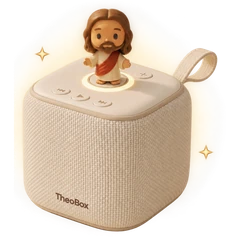
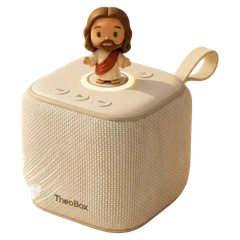
Ruleta: imagen nueva de la TheoBox y sin la cama de paja; en la semana 4 la casilla de prenda da la que falte
Claude-Session: https://claude.ai/code/session_01BktJzG9fzs9MDbqfrZW9Zc

diff --git a/public/js/flow.js b/public/js/flow.js
@@ -1106,7 +1106,7 @@ function quitarCorona(root) {
 /** El cuarto de Teodoro trae nombre, racha y panes pintados en la imagen: se tapan con los datos reales (mismo estilo que Hoy). */
 function patchCuarto(root) {
   const bg = $$(root, 'img').find(i => /^Tab Teodoro/.test(i.alt || ''));
-  const POS = { gorro: 'left:150px;top:96px;width:84px;transform:rotate(-8deg)', bufanda: 'left:140px;top:222px;width:102px', bolso: 'left:236px;top:268px;width:62px;transform:rotate(10deg)', paja: 'left:268px;top:312px;width:100px' };
+  const POS = { gorro: 'left:150px;top:96px;width:84px;transform:rotate(-8deg)', bufanda: 'left:140px;top:222px;width:102px', bolso: 'left:236px;top:268px;width:62px;transform:rotate(10deg)' };
   // de pie (3 a 5 de energía) lleva gorro y bufanda; cansado o dormido, el bolso queda en el piso
   const dePie = S.bateria >= 3 || !!bg;
   if (!dePie) POS.bolso = 'left:262px;top:330px;width:58px;transform:rotate(-6deg)';
@@ -1137,7 +1137,7 @@ function patchCuarto(root) {
   add(`${racha()}<svg aria-hidden="true" width="16" height="20" viewBox="0 0 24 30"><path d="M12 1C13 8 21 11 21 19a9 9 0 0 1-18 0c0-5 3-7 4-11 2 3 3 4 3 6 1-4 2-8 2-13Z" fill="#F28C28"/><path d="M12 14c1 4 5 5 5 9a5 5 0 0 1-10 0c0-3 2-4 2-6 1 1 2 2 2 3 0-2 1-4 1-6Z" fill="#FFC94A"/></svg>`,
     'left:206px;top:55px;width:74px;height:44px;border-radius:22px;background:#1F7F95;display:flex;align-items:center;justify-content:center;gap:4px;color:#FFFFFF;font:700 18px "Neue Montreal",Mulish,sans-serif;box-shadow:0 4px 12px rgba(0,8,43,.12)')
     .setAttribute('aria-label', `Racha: ${racha()} días seguidos`);
-  // prendas ganadas en la ruleta: Teodoro las lleva puestas (la cama de paja va en el suelo)
+  // prendas ganadas en la ruleta: Teodoro las lleva puestas
   ponerPrendas();
   add(String(S.panes), 'left:336px;top:520px;width:40px;height:24px;background:rgb(251,242,229);color:#4A2E14;display:grid;place-items:center;font:800 15px Mulish,sans-serif')
     .setAttribute('aria-label', `${S.panes} panes`);
@@ -1525,6 +1525,8 @@ const SEGMENTS = ['theobox', 'panes', 'cuarto', 'panes', 'prenda', 'panes', 'otr
 const TEOBOX_DIA = RULES.ruleta[RULES.ruleta.length - 1];
 const TEOBOX = 'ruleta/theobox.webp', TEOBOX_IMG = A(TEOBOX); // en la rueda va recortada, sin el resplandor (se veía chica)
 const teoboxEnJuego = n => n === TEOBOX_DIA && S.theobox === 'libre';
+// la prenda de la casilla «prenda»: la de su semana (1 a 3); en la semana 4, la primera que les falte (sin ninguna pendiente, null = panes)
+const prendaDe = n => PRENDAS[RULES.ruleta.indexOf(n)] || PRENDAS.find(x => !S.prendas.includes(x.id)) || null;
 const SEG = 360 / SEGMENTS.length;
 // los íconos de las 8 casillas sobre rueda8.webp (caja = lo que mide la rueda), cada uno mirando hacia afuera
 const casillas = (caja, prenda) => {
@@ -1549,12 +1551,12 @@ register('ruletaPop', {
     wheel?.parentElement.classList.add('a-pop');
     const pointer = $$(root, 'img').find(i => i.src.includes('3fdb655b'));
     // la rueda de 8 casillas y sus iconos (la del lienzo trae 10)
-    const week0 = RULES.ruleta.indexOf(n);
+    const prendaSemana = prendaDe(n); // se fija al abrir: la rueda muestra lo mismo que da
     if (wheel) {
       const base = wheel.querySelector(':scope > img'); if (base) base.src = 'assets/ruleta/rueda8.webp';
       [...wheel.children].filter(c => c.tagName === 'DIV').forEach(c => c.remove());
       const box = base ? parseFloat(base.style.width) || 330 : 330, cx = box / 2;
-      wheel.insertAdjacentHTML('beforeend', casillas(box, A(PRENDAS[week0]?.img || IMG.regalo)));
+      wheel.insertAdjacentHTML('beforeend', casillas(box, A(prendaSemana?.img || IMG.pan)));
       wheel.style.transformOrigin = `${cx}px ${cx}px`;
       wheel.parentElement.setAttribute('aria-label', 'Ruleta sorpresa con 8 casillas: TheoBox, panes, sorpresa, panes, prenda de la semana, panes, gira otra vez, panes');
     }
@@ -1566,7 +1568,7 @@ register('ruletaPop', {
       const tarde = find(root, 'Más tarde'); if (tarde) tarde.style.visibility = 'hidden'; layer.querySelector('.pop-x')?.remove();
       // premio: el forzado en el panel o al azar (todas las casillas ganan)
       const forced = giros === 0 ? S.forzarPremio : ''; // el giro extra de «otra oportunidad» siempre es al azar
-      const weekId = PRENDAS[RULES.ruleta.indexOf(n)]?.id;
+      const weekId = prendaSemana?.id;
       const pick = () => {
         if (weekId && !S.prendas.includes(weekId) && Math.random() < .35) return SEGMENTS.indexOf('prenda');
         let i = Math.floor(Math.random() * SEGMENTS.length);
@@ -1611,7 +1613,6 @@ register('ruletaPop', {
         wheel.classList.remove('wheel-spin'); wheel.style.transition = 'none';
         if (!layer.isConnected) return;
       }
-      const week = RULES.ruleta.indexOf(n);
       // «¡Gira otra vez!»: un segundo giro, sin premio todavía
       if (premio === 'otra') {
         navigator.vibrate?.(20);
@@ -1625,11 +1626,12 @@ register('ruletaPop', {
         const masTarde = find(root, 'Más tarde'); if (masTarde) masTarde.style.visibility = ''; // pueden girar ahora o dejarlo para después
         return;
       }
-      const prize = premio === 'prenda' ? PRENDAS[week].id : premio;
+      if (premio === 'prenda' && !prendaSemana) premio = 'panes'; // semana 4 con las tres prendas: la casilla es de panes
+      const prize = premio === 'prenda' ? prendaSemana.id : premio;
       S.ruletas[n] = prize;
       if (premio === 'theobox') S.theobox = 'mia';
       if (premio === 'panes') addPanes(RULES.panes.ruleta);
-      if (premio === 'prenda') S.prendas.push(PRENDAS[week].id);
+      if (premio === 'prenda' && !S.prendas.includes(prendaSemana.id)) S.prendas.push(prendaSemana.id);
       if (premio === 'cuarto') S.cuartoNuevo = true;
       // con la energía llena, Teodoro la guarda para mañana (no se pierde el premio)
       if (premio === 'manzana') { S.manzanaLlena = S.bateria >= 5; if (S.manzanaLlena) S.manzana = true; else setBateria(S.bateria + 1); }

diff --git a/public/js/app.js b/public/js/app.js
@@ -54,7 +54,7 @@ function fill(upto, opts = {}) {
   S.completos[0] = { contenido: true };
   for (let n = 1; n <= upto; n++) S.completos[n] = hasTrivia(n) ? { contenido: true, trivia: true, estrellas: STAR_PATTERN[n - 1] } : { contenido: true };
   S.ruletas = {}; S.prendas = []; S.sorpresas = {}; S.ruletaPendiente = {};
-  RULES.ruleta.forEach((d, i) => { if (d <= upto) { S.ruletas[d] = PRENDAS[i].id; S.prendas.push(PRENDAS[i].id); } });
+  RULES.ruleta.forEach((d, i) => { if (d <= upto) { S.ruletas[d] = PRENDAS[i]?.id || 'panes'; if (PRENDAS[i]) S.prendas.push(PRENDAS[i].id); } });
   Object.keys(RULES.sorpresa).forEach(d => { if (+d <= upto) S.sorpresas[d] = 'hecha'; });
   S.panes = 60 + upto * 22;
   Object.assign(S, opts);
@@ -125,9 +125,9 @@ const DECISIONES = [
   'Solo los días 1, 2, 3, 4, 9, 11, 17, 18 y 24 tienen trivia (cronograma de contenido). Los demás se completan con la historia, sin estrellas; si toca sorpresa (6, 12, 15, 21) se abre al terminar la historia.',
   'Trivia: 5 preguntas por día, todas con 4 respuestas; revisión pastoral hecha (exactitud bíblica, una sola respuesta válida, lenguaje para 5–8 años). Falta la aprobación final del equipo de contenido.',
   'Estrellas: 5 de 5 = 3 estrellas · 3 o 4 = 2 · menos = 1. Solo cuenta el primer intento de cada pregunta.',
-  'Ruleta: 10 casillas (7 panes, manzana, prenda de la semana, cuarto). Prendas: gorro, bufanda, bolso y cama de paja.',
+  'Ruleta: 8 casillas: TheoBox (gran premio, solo día 24 y una vez), 4 de 20 panes, «?» (cuarto nuevo para Teodoro), prenda de la semana y «otra oportunidad». Prendas: gorro, bufanda y bolso (semanas 1 a 3); en la semana 4 sale la que les falte.',
   'La historia del reproductor dura 9 segundos para poder probar rápido.',
-  'Ruleta: la manzana le da +1 de energía a Teodoro; la prenda de la semana sale más seguido si aún no la tiene; el cuarto no se repite.',
+  'Ruleta: la prenda de la semana sale más seguido si aún no la tiene; el cuarto no se repite (si ya lo tienen, panes); la TheoBox nunca sale al azar.',
   'Pop-ups sobre la pantalla real: teaser, final de trivia, ruleta y premios, «Se acabó el tiempo» y «Mañana seguimos».',
   'Hojas de página (se cierran deslizando): free sobre el reto y calificación sobre el mapa.',
   'Pantalla completa a propósito: el reto en familia (es un destino con contenido, extras y un juego dentro: en hoja quedaría apretado y se perdería al deslizar) y la invitación (simula salir a WhatsApp/iMessage; en la app real es la hoja de compartir del sistema).',

diff --git a/public/js/data.js b/public/js/data.js
@@ -133,12 +133,12 @@ export const RULES = {
 };
 export const hasTrivia = n => RULES.trivia.includes(n);
 
-// Prenda de cada semana (la del regalo de la ruleta). Semana 4: por definir en el lienzo.
+// Prenda de la semana en la ruleta (semanas 1 a 3). La semana 4 (día 24, la de la TheoBox) no trae una propia: da la que les falte
+// y, si ya tienen las tres, panes. La cama de paja ya no va en la ruleta (César, 9-nov).
 export const PRENDAS = [
   { id: 'gorro', nombre: 'un gorro', img: IMG.gorro, sub: 'Teodoro ya lo tiene puesto' },
   { id: 'bufanda', nombre: 'una bufanda', img: IMG.bufanda, sub: 'Teodoro ya la tiene puesta' },
   { id: 'bolso', nombre: 'un bolso', img: IMG.bolso, sub: 'Teodoro ya lo lleva' },
-  { id: 'paja', nombre: 'una cama de paja', img: IMG.paja, sub: 'Ya está en el cuarto de Teodoro' },
 ];
 
 // Trivia: 5 preguntas por día. o = opciones (texto o {t,img}); a = índice correcto o lista (varias)
